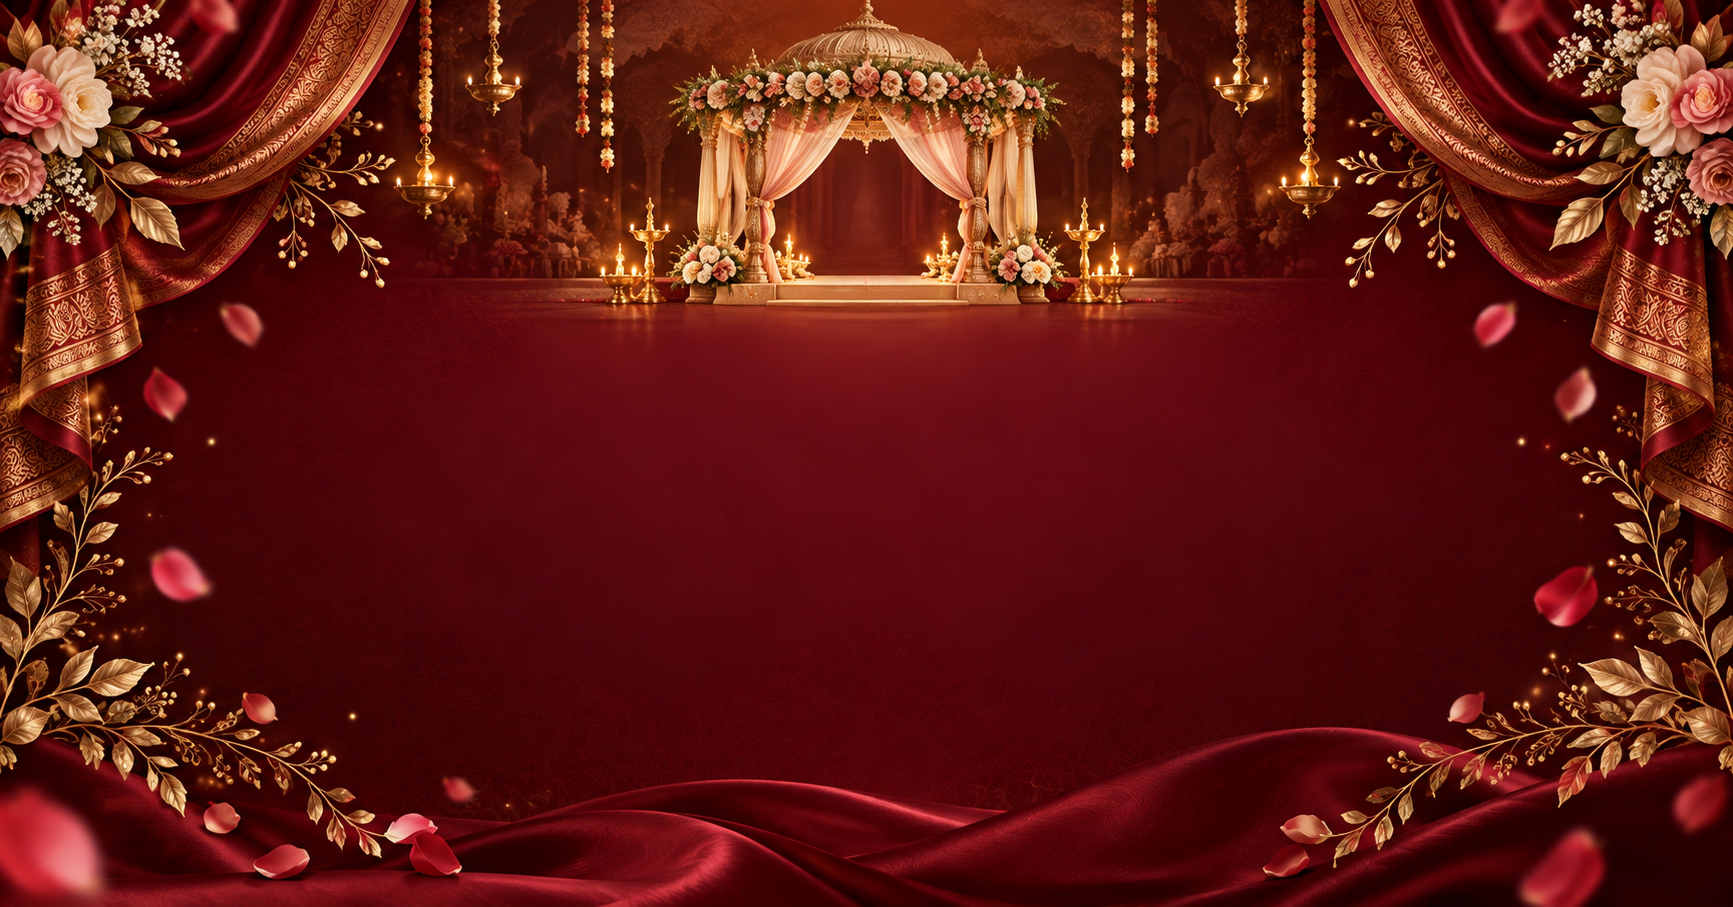
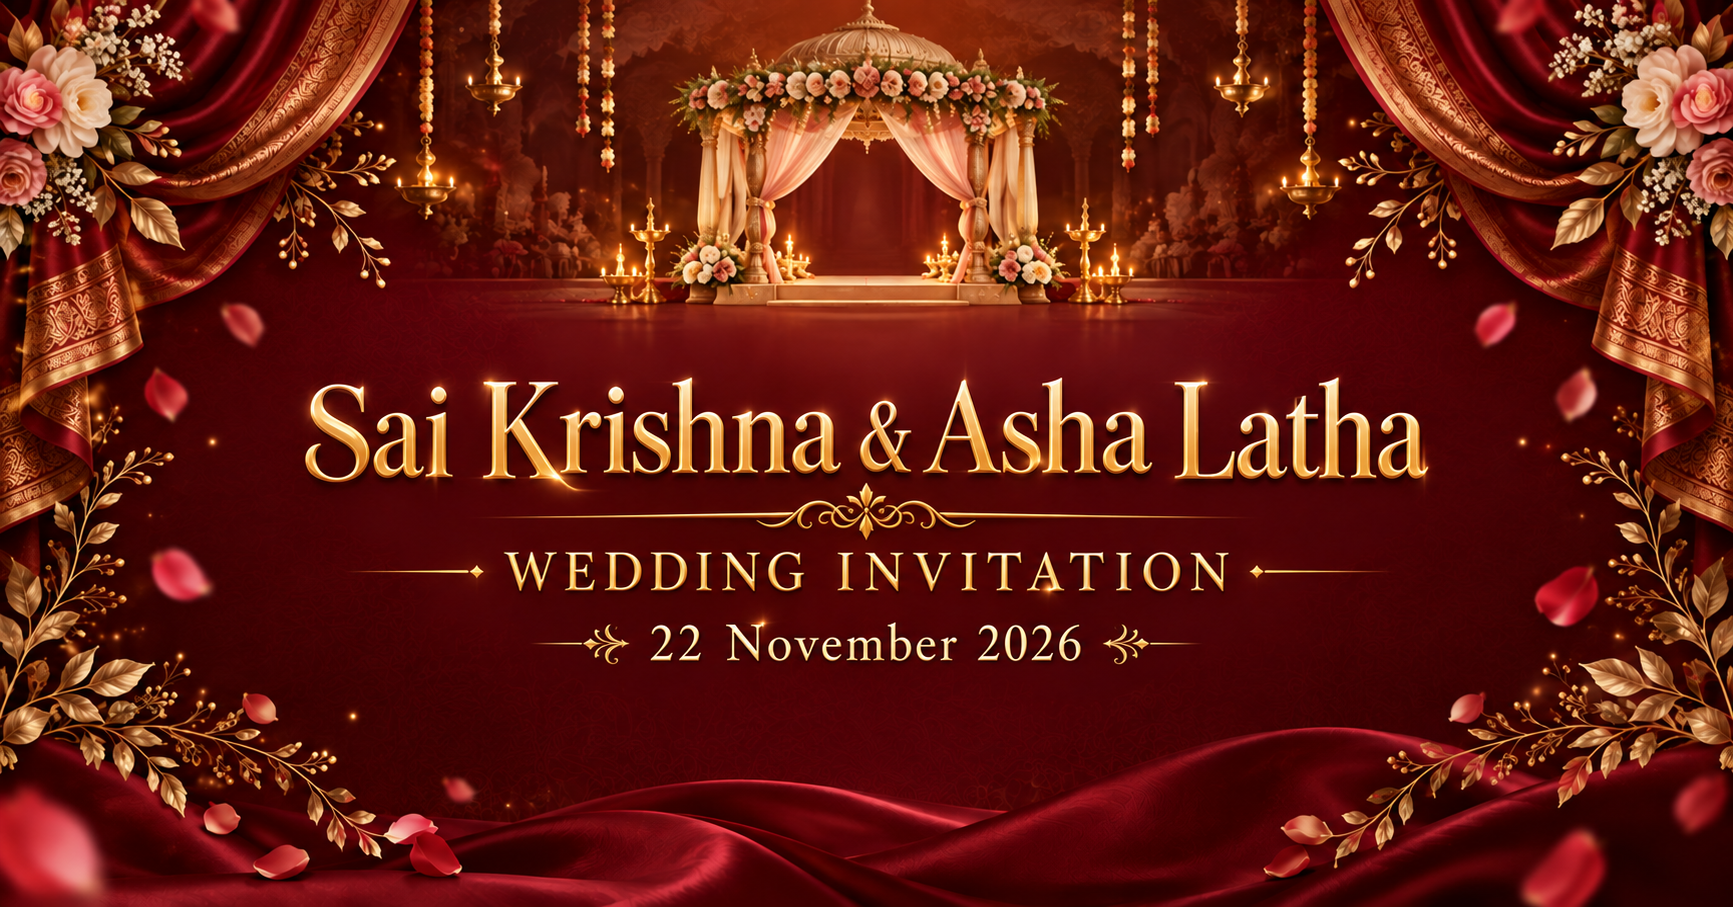
Add couple names to social preview thumbnail

diff --git a/index.html b/index.html
@@ -12,7 +12,7 @@
   <meta property="og:image" content="https://saikrishna508.github.io/wedding-invitation/assets/wedding-invitation-preview.png">
   <meta property="og:image:width" content="1733">
   <meta property="og:image:height" content="907">
-  <meta property="og:image:alt" content="A maroon and gold wedding invitation with a floral mandap and rose petals">
+  <meta property="og:image:alt" content="Sai Krishna and Asha Latha's maroon and gold wedding invitation for 22 November 2026">
   <meta name="twitter:card" content="summary_large_image">
   <title>Sai Krishna & Asha Latha — Wedding Invitation</title>
   <link rel="preconnect" href="https://fonts.googleapis.com">
